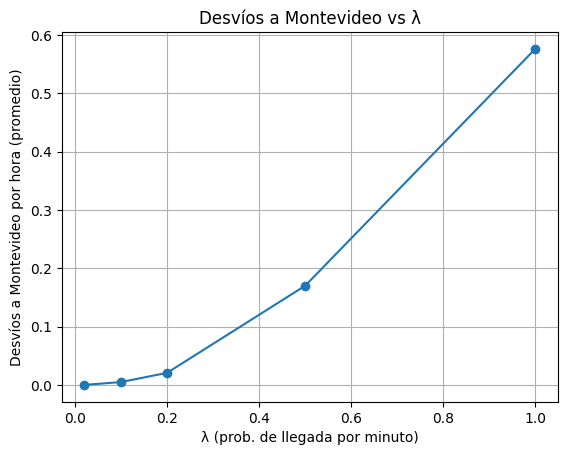
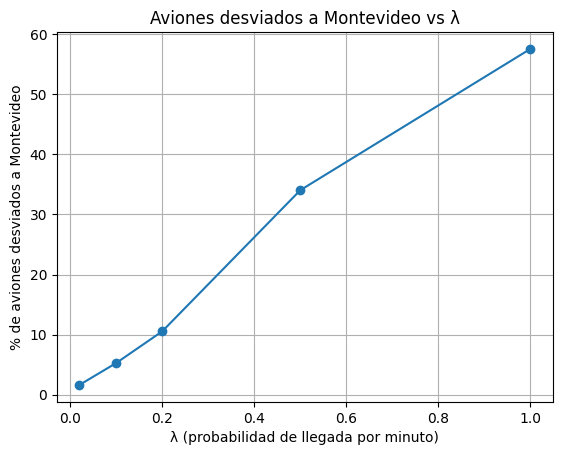
Cambios_Graficos

Changed region(s): [[0.0, 0.0308, 0.968, 0.9846], [0.9377, 0.8923, 0.968, 0.9231], [0.3327, 0.6462, 0.363, 0.6769]]

diff --git a/calcular_proba.py b/calcular_proba.py
@@ -6,7 +6,7 @@ from pathlib import Path
 import re, json, math
 import pandas as pd
 import matplotlib.pyplot as plt
-''''''
+'''
 archivo= open("salidas_sim/sim_anteriores/run_p=0.016666666666666666_sim=100000.json")
 data = json.load(archivo)
 cant_detectados_por_hora = data["cant_detectados_por_hora"]
@@ -32,17 +32,10 @@ p = 1/60
 res2=p_bin_5(p)
 
 print("exacta:",res2, "nuestra:" ,res1)
-
+'''
 # analiza_runs.py
 #
 #
-def se_mean(x):
-    x = np.asarray(x).ravel() /60
-    n = x.size
-    mean = x.mean()
-    se = x.std(ddof=1) / math.sqrt(n) if n > 1 else float("nan")
-    return mean, se, n
-
 def se_prop(k, n):
     if n <= 0:
         return float("nan"), float("nan"), 0
@@ -71,93 +64,94 @@ def main():
     ]
     for fp in runs:
         p, A, D, M, C = load_run(fp)
+        A_f, D_f, M_f, C_f = A.ravel(), D.ravel(), M.ravel(), C.ravel()
 
-        # Aplanamos por “hora de simulación” (S*H muestras)
-        A_f = A.ravel()
-        D_f = D.ravel()
-        M_f = M.ravel()
-        C_f = C.ravel()
-
-        # Medias por hora y SE
-        mean_arr, se_arr, n_arr = se_mean(A_f)
-        mean_mvd, se_mvd, n_mvd = se_mean(M_f)
-        mean_cong, se_cong, n_cong = se_mean(C_f)
-
-        # Probabilidad de que en una hora haya ≥1 congestión
+        # Prob de ≥1 minuto con congestión en la hora
         cong_any = (C_f > 0).astype(int)
+        cong_any = (C_f > 0).astype(int)
+
+        print(f"\nλ={p}")
+        print("Horas totales simuladas:", cong_any.size)
+        print("Horas con ≥1 avión congestionado:", cong_any.sum())
+        print("Proporción:", cong_any.sum() / cong_any.size)
+
         p_cong_any, se_cong_any, n_any = se_prop(cong_any.sum(), cong_any.size)
 
-        # Tasas por avión detectado (aproximación con agregados horarios)
+        # Tasas por detectado (aprox con agregados horarios)
         total_detect = D_f.sum()
-        total_cong = C_f.sum()
+        total_cong_min = C_f.sum()
         total_mvd = M_f.sum()
-
-        # ¿Aumenta λ la frecuencia de congestiones? ¿Se ve gráficamente?
-        p_cong_per_detect, se_cong_per_detect, n_cd = se_prop(total_cong, total_detect)
-        
-        p_mvd_per_detect, se_mvd_per_detect, n_md = se_prop(total_mvd, total_detect)    
+        p_cong_per_detect, se_cong_per_detect, n_cd = se_prop(total_cong_min, total_detect)
+        p_mvd_per_detect, se_mvd_per_detect, n_md = se_prop(total_mvd, total_detect)
 
         rows.append(dict(
-            lambda_=p,
-            mean_arribos_hora=mean_arr, se_arribos=se_arr, n_arr=n_arr,
-            mean_desvios_mvd_hora=mean_mvd, se_desvios=se_mvd, n_mvd=n_mvd,
-            mean_congestion_hora=mean_cong, se_congestion=se_cong, n_cong=n_cong,
-            prob_hubo_congestion_hora=p_cong_any, se_prob_cong=se_cong_any, n_prob=n_any,
-            prob_congestion_por_detectado=p_cong_per_detect, se_cong_por_detect=se_cong_per_detect, n_cd=n_cd,
-            prob_mvd_por_detectado=p_mvd_per_detect, se_mvd_por_detect=se_mvd_per_detect, n_md=n_md,
-            file=fp.name
-        ))
+        lambda_=p,
+        # ¿hubo ≥1 avión en congestión en la hora?
+        prob_hubo_congestion_hora=p_cong_any, se_prob_cong=se_cong_any, n_prob=n_any,
+
+        # Tasas por avión detectado
+        prob_congestion_por_detectado=p_cong_per_detect, se_cong_por_detect=se_cong_per_detect, n_cd=n_cd,
+        prob_mvd_por_detectado=p_mvd_per_detect, se_mvd_por_detect=se_mvd_per_detect, n_md=n_md,
+
+        file=fp.name
+))
 
     df = pd.DataFrame(rows).sort_values("lambda_").reset_index(drop=True)
 
-    # Tabla resumen bonita
     pd.options.display.float_format = lambda x: f"{x:,.4f}"
     cols_show = [
-        "lambda_",
-        "mean_arribos_hora", "se_arribos",
-        "mean_congestion_hora", "se_congestion",
-        "prob_hubo_congestion_hora", "se_prob_cong",
-        "mean_desvios_mvd_hora", "se_desvios",
-        "prob_congestion_por_detectado", "se_cong_por_detect",
-        "prob_mvd_por_detectado", "se_mvd_por_detect",
-        "file",
-    ]
+    "lambda_",
+    # Prob. de que haya al menos 1 avión en congestión en la hora
+    "prob_hubo_congestion_hora", "se_prob_cong",
+
+    # % de aviones detectados que tuvieron congestión
+    "prob_congestion_por_detectado", "se_cong_por_detect",
+
+    # % de aviones detectados que se desviaron a MVD
+    "prob_mvd_por_detectado", "se_mvd_por_detect",
+
+    "file",
+]
     print("\n=== RESUMEN POR λ (medias por hora ± error estándar) ===\n")
     print(df[cols_show])
 
-    # Guardar CSV
     df.to_csv("resumen_lambda.csv", index=False)
     print("\nGuardé resumen en resumen_lambda.csv")
-    
-    # --------- Gráficos simples ----------
-    # 1) Congestión (eventos/hora) vs λ
+
+    # ---------- Gráficos ----------
+    # 1) % de aviones con congestión vs λ (entre los detectados)
     plt.figure()
-    plt.plot(df["lambda_"], df["mean_congestion_hora"], marker="o")
-    plt.xlabel("λ (prob. de llegada por minuto)")
-    plt.ylabel("'%'de minutos con congestión")
-    plt.title("Congestión vs λ")
+    plt.plot(df["lambda_"], 100*df["prob_congestion_por_detectado"], marker="o")
+    plt.xlabel("λ (probabilidad de llegada por minuto)")
+    plt.ylabel("% de aviones con congestión")
+    plt.title("Aviones con congestión vs λ")
     plt.grid(True)
     plt.savefig("plots/plot_congestion_vs_lambda.png", bbox_inches="tight")
 
-    # 2) Probabilidad de que haya ≥1 congestión en la hora vs λ
+    # 1) Proba de que haya una congestion en cualquier hora
     plt.figure()
     plt.plot(df["lambda_"], df["prob_hubo_congestion_hora"], marker="o")
-    plt.xlabel("λ (prob. de llegada por minuto)")
-    plt.ylabel("Pr(hubo ≥1 congestión en la hora)")
+    plt.xlabel("λ (probabilidad de llegada por minuto)")
+    plt.ylabel("Prob. de ≥1 avión en congestión en la hora")
     plt.title("Probabilidad de congestión horaria vs λ")
+    plt.figtext(0.5, -0.05,
+                "Probabilidad de que una hora cualquiera tenga al menos un avión congestionado",
+                wrap=True, ha="center", fontsize=9)
     plt.grid(True)
     plt.savefig("plots/plot_prob_congestion_vs_lambda.png", bbox_inches="tight")
 
-    # 3) Desvíos a Montevideo por hora vs λ
+
+   # 3) % de aviones desviados a Montevideo vs λ
     plt.figure()
-    plt.plot(df["lambda_"], df["mean_desvios_mvd_hora"], marker="o")
-    plt.xlabel("λ (prob. de llegada por minuto)")
-    plt.ylabel("Desvíos a Montevideo por hora (promedio)")
-    plt.title("Desvíos a Montevideo vs λ")
+    plt.plot(df["lambda_"], 100*df["prob_mvd_por_detectado"], marker="o")
+    plt.xlabel("λ (probabilidad de llegada por minuto)")
+    plt.ylabel("% de aviones desviados a Montevideo")
+    plt.title("Aviones desviados a Montevideo vs λ")
     plt.grid(True)
     plt.savefig("plots/plot_mvd_vs_lambda.png", bbox_inches="tight")
 
-    print("\nExporté gráficos: plot_congestion_vs_lambda.png, plot_prob_congestion_vs_lambda.png, plot_mvd_vs_lambda.png")
+    print("\nExporté: plot_congestion_vs_lambda.png, plot_prob_congestion_vs_lambda.png, plot_mvd_vs_lambda.png")
+
 
 if __name__ == "__main__":
     main()
